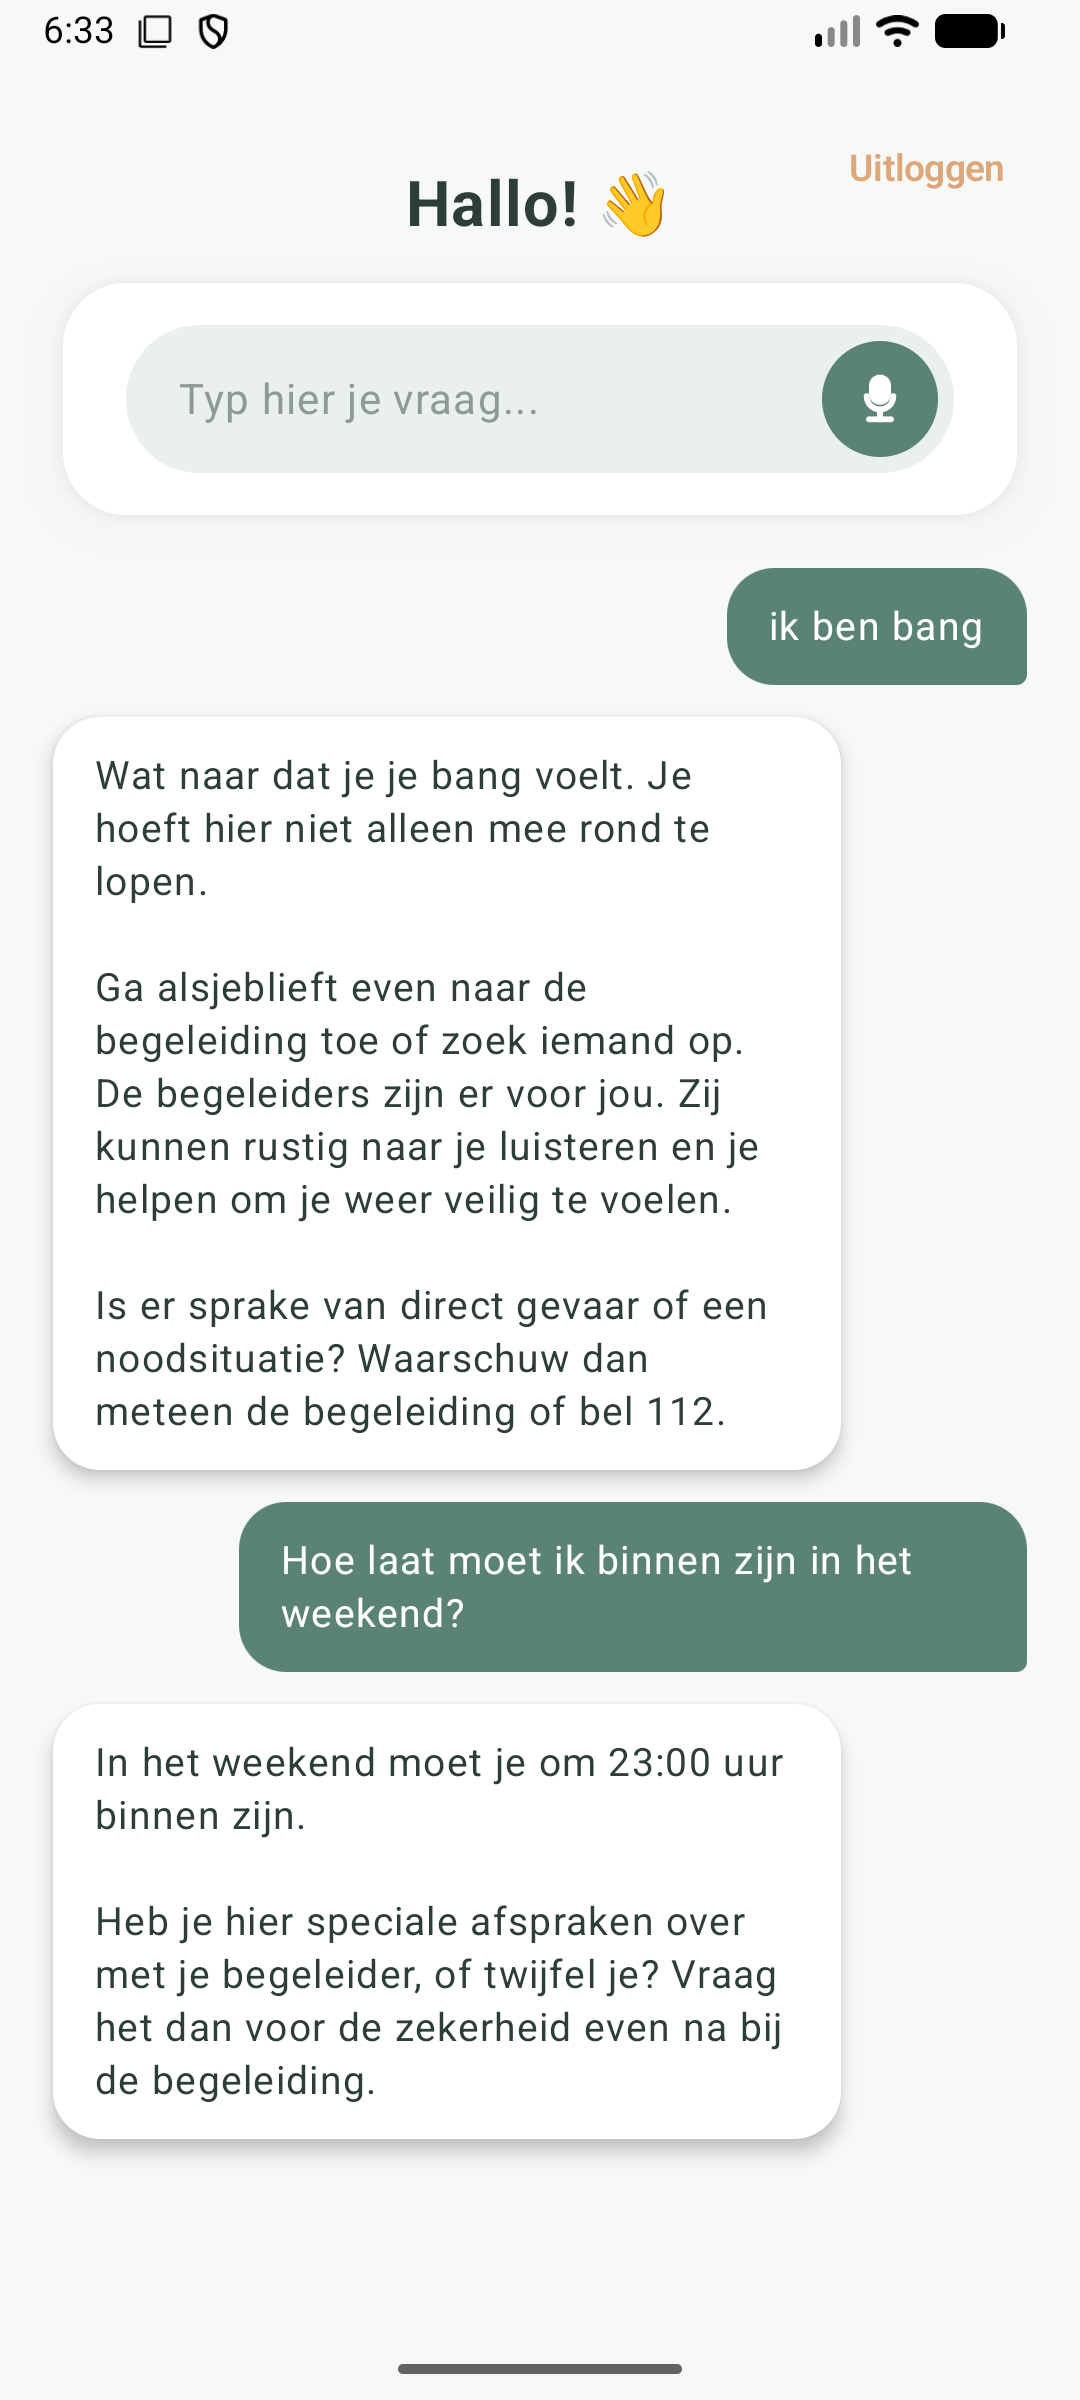
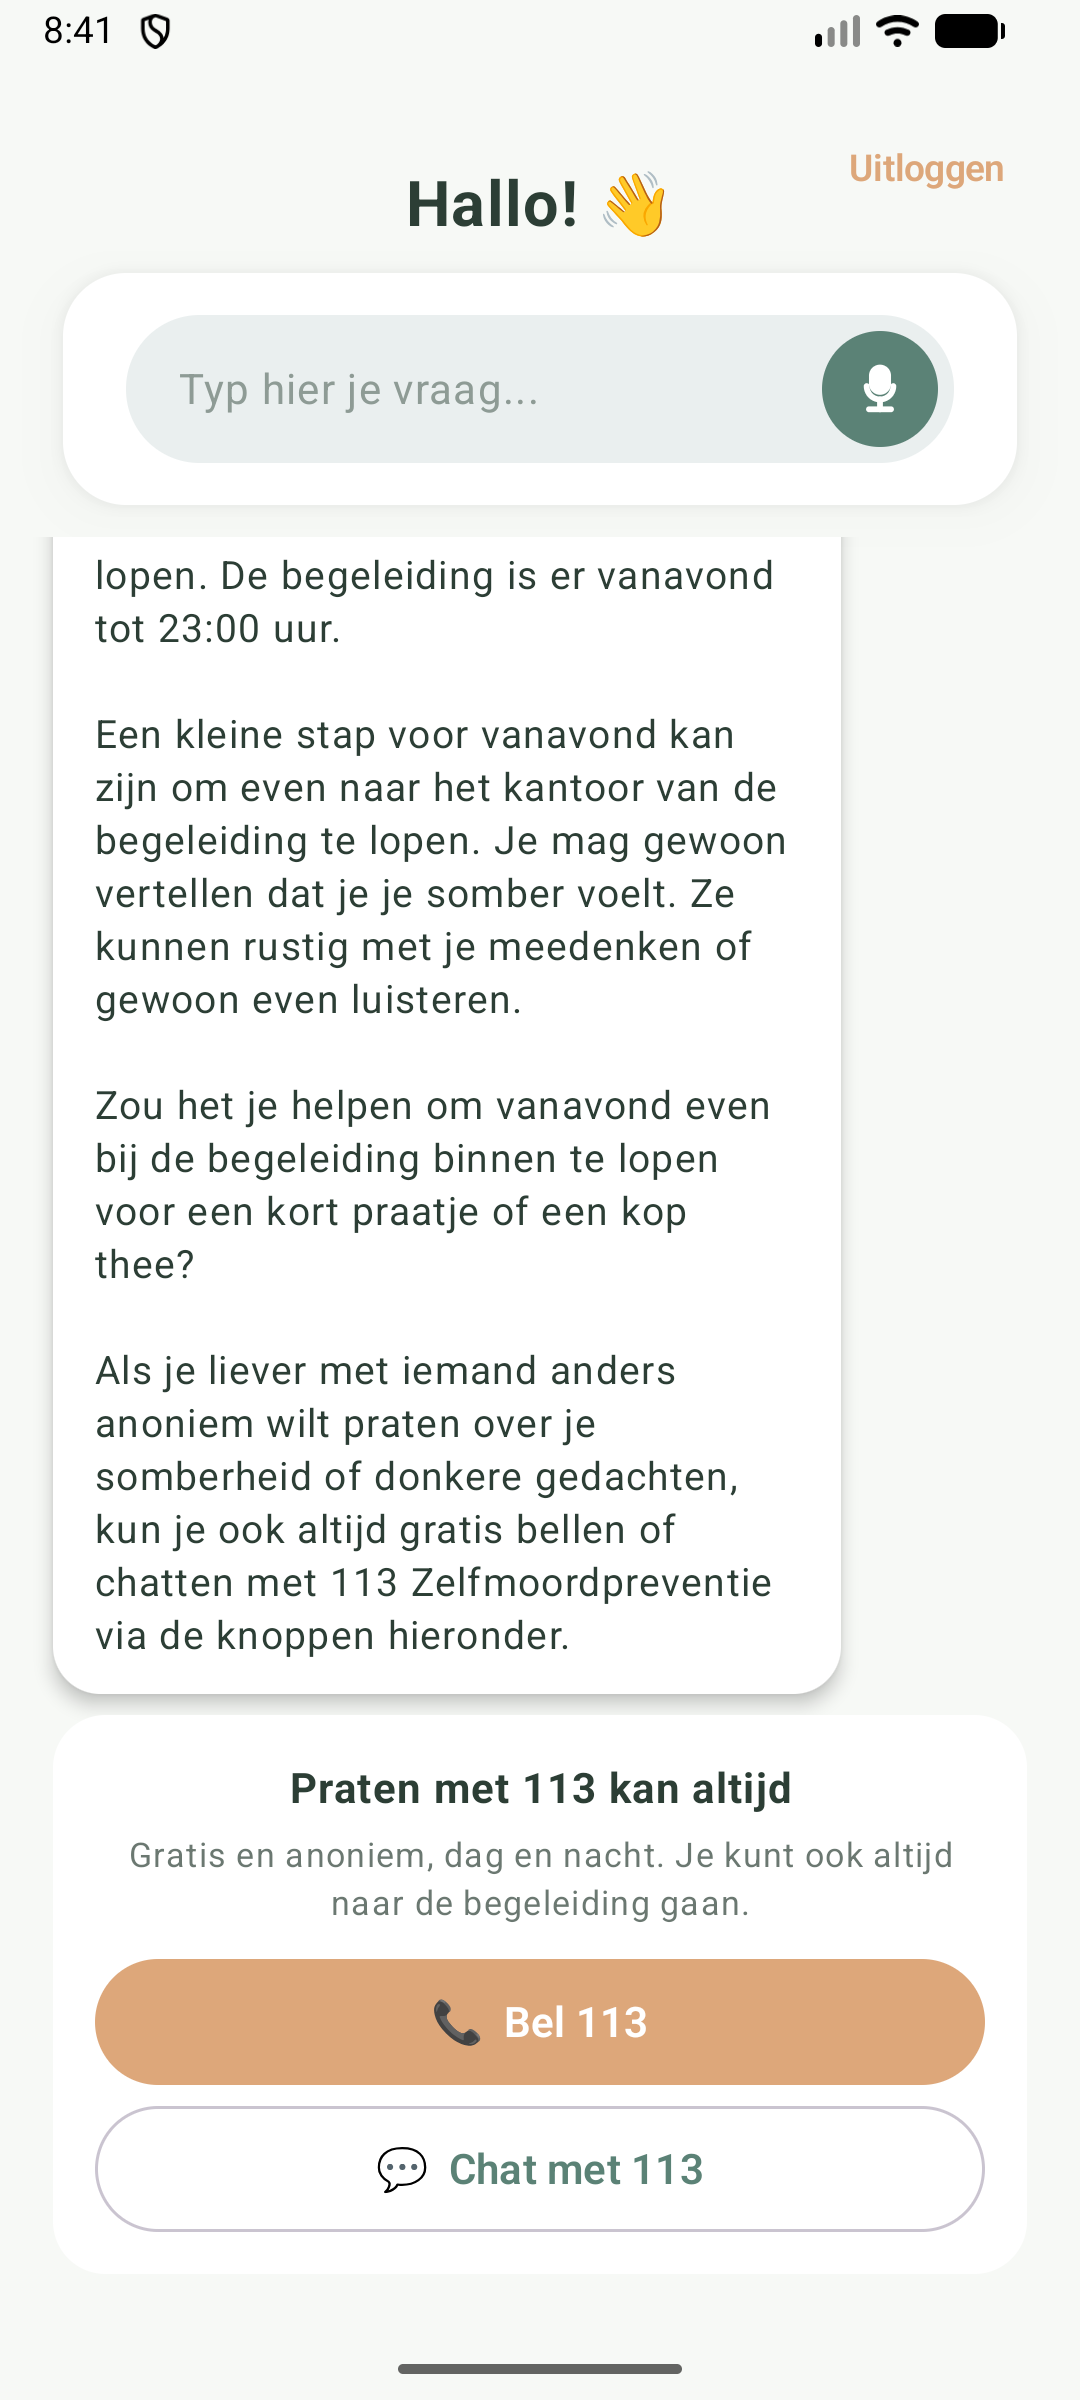
Versie 1.2: 113-knoppen bij somberheid of suïcidale gedachten, nieuwe screenshots

diff --git a/app/src/main/java/com/example/whatsubb/ui/ChatScreen.kt b/app/src/main/java/com/example/whatsubb/ui/ChatScreen.kt
@@ -33,6 +33,7 @@ import androidx.compose.ui.unit.sp
 import com.example.whatsubb.AppServices
 import com.example.whatsubb.ai.AiException
 import com.example.whatsubb.ai.Turn
+import com.example.whatsubb.data.KnowledgeBase
 import com.example.whatsubb.data.Role
 import com.example.whatsubb.privacy.Anonymizer
 import com.example.whatsubb.ui.theme.*
@@ -94,14 +95,14 @@ fun ChatScreen(
         }
     }
     var confirmNightCall by remember { mutableStateOf(false) }
+    var pendingPhone by remember { mutableStateOf<String?>(null) }
 
-    fun call(direct: Boolean) {
-        val phone = callTarget?.phone ?: return
+    fun call(phone: String, direct: Boolean) {
         val uri = Uri.parse("tel:" + phone.filter { it.isDigit() || it == '+' })
         try {
             context.startActivity(Intent(if (direct) Intent.ACTION_CALL else Intent.ACTION_DIAL, uri))
         } catch (e: SecurityException) {
-            call(direct = false)
+            call(phone, direct = false)
         } catch (e: ActivityNotFoundException) {
             Toast.makeText(context, "Bellen kan niet op dit apparaat. Het nummer is $phone", Toast.LENGTH_LONG).show()
         }
@@ -109,12 +110,26 @@ fun ChatScreen(
 
     // Eerste keer: toestemming vragen om direct te bellen; zonder toestemming opent de telefoon-app met het nummer.
     val callPermissionLauncher = rememberLauncherForActivityResult(ActivityResultContracts.RequestPermission()) { granted ->
-        call(direct = granted)
+        pendingPhone?.let { call(it, direct = granted) }
+        pendingPhone = null
     }
 
-    fun startCall() {
+    fun startCall(phone: String? = callTarget?.phone) {
+        if (phone == null) return
         val granted = ContextCompat.checkSelfPermission(context, Manifest.permission.CALL_PHONE) == PackageManager.PERMISSION_GRANTED
-        if (granted) call(direct = true) else callPermissionLauncher.launch(Manifest.permission.CALL_PHONE)
+        if (granted) call(phone, direct = true)
+        else {
+            pendingPhone = phone
+            callPermissionLauncher.launch(Manifest.permission.CALL_PHONE)
+        }
+    }
+
+    fun open113Chat() {
+        try {
+            context.startActivity(Intent(Intent.ACTION_VIEW, Uri.parse(HELP_113_CHAT_URL)))
+        } catch (e: ActivityNotFoundException) {
+            Toast.makeText(context, "Open 113.nl/chat in je browser", Toast.LENGTH_LONG).show()
+        }
     }
 
     fun onCallButton() {
@@ -138,8 +153,12 @@ fun ChatScreen(
                     systemPrompt = services.knowledgeBase.systemPrompt(role),
                     history = history.takeLast(MAX_TURNS).dropWhile { !it.fromUser }
                 )
-                messages.add(ChatMessage(reply, isUser = false))
-                history.add(Turn(fromUser = false, text = reply))
+                // De AI geeft met een vaste markering aan dat 113 erbij hoort; als vangnet kijken we ook naar de vraag zelf.
+                val answer = reply.replace(KnowledgeBase.HELP_113_MARKER, "").trim()
+                val show113 = role == Role.BEWONER &&
+                    (reply.contains(KnowledgeBase.HELP_113_MARKER) || mentions113Topic(query))
+                messages.add(ChatMessage(answer, isUser = false, show113 = show113))
+                history.add(Turn(fromUser = false, text = answer))
             } catch (e: AiException) {
                 messages.add(ChatMessage(e.message.orEmpty(), isUser = false, isError = true))
                 history.removeAt(history.lastIndex) // mislukte vraag niet meesturen
@@ -287,7 +306,12 @@ fun ChatScreen(
                     verticalArrangement = Arrangement.spacedBy(12.dp),
                     contentPadding = PaddingValues(vertical = 8.dp, horizontal = 4.dp)
                 ) {
-                    items(messages) { msg -> ChatBubble(message = msg) }
+                    items(messages) { msg ->
+                        Column {
+                            ChatBubble(message = msg)
+                            if (msg.show113) Help113Card(onCall = { startCall(HELP_113_PHONE) }, onChat = ::open113Chat)
+                        }
+                    }
                     if (isLoading) item { TypingBubble() }
                 }
             }
@@ -318,6 +342,59 @@ fun ChatScreen(
 }
 
 private const val MAX_TURNS = 20
+
+/** 113 Zelfmoordpreventie: gratis, anoniem, dag en nacht. */
+private const val HELP_113_PHONE = "0800-0113"
+private const val HELP_113_CHAT_URL = "https://www.113.nl/chat"
+
+private val HELP_113_WORDS = listOf(
+    "zelfmoord", "suïcid", "suicid", "zelfdoding", "dood wil", "dood zijn", "niet meer leven",
+    "niet meer wil leven", "einde maken", "er niet meer zijn", "er een eind aan", "mezelf iets aandoen",
+    "somber", "depressief", "hopeloos", "geen zin meer in", "geen zin in het leven", "alles is zinloos"
+)
+
+private fun mentions113Topic(text: String): Boolean {
+    val lower = text.lowercase()
+    return HELP_113_WORDS.any { it in lower }
+}
+
+/** Kaartje onder een antwoord over somberheid of suïcidale gedachten. */
+@Composable
+private fun Help113Card(onCall: () -> Unit, onChat: () -> Unit) {
+    Card(
+        modifier = Modifier.fillMaxWidth().padding(top = 8.dp),
+        shape = RoundedCornerShape(20.dp),
+        colors = CardDefaults.cardColors(containerColor = Color.White)
+    ) {
+        Column(modifier = Modifier.padding(16.dp), horizontalAlignment = Alignment.CenterHorizontally) {
+            Text(
+                "Praten met 113 kan altijd",
+                fontSize = 16.sp, fontWeight = FontWeight.Bold, color = TextDark, textAlign = TextAlign.Center
+            )
+            Text(
+                "Gratis en anoniem, dag en nacht. Je kunt ook altijd naar de begeleiding gaan.",
+                fontSize = 13.sp, color = TextDark.copy(alpha = 0.7f), textAlign = TextAlign.Center,
+                lineHeight = 18.sp, modifier = Modifier.padding(top = 4.dp, bottom = 12.dp)
+            )
+            Button(
+                onClick = onCall,
+                shape = CircleShape,
+                colors = ButtonDefaults.buttonColors(containerColor = PeachAccent),
+                modifier = Modifier.fillMaxWidth().height(48.dp)
+            ) {
+                Text("📞  Bel 113", fontSize = 16.sp, fontWeight = FontWeight.SemiBold, color = Color.White)
+            }
+            Spacer(modifier = Modifier.height(8.dp))
+            OutlinedButton(
+                onClick = onChat,
+                shape = CircleShape,
+                modifier = Modifier.fillMaxWidth().height(48.dp)
+            ) {
+                Text("💬  Chat met 113", fontSize = 16.sp, fontWeight = FontWeight.SemiBold, color = SagePrimary)
+            }
+        }
+    }
+}
 
 private val EXAMPLE_QUESTIONS = listOf(
     "🍽" to "Wat eten we vanavond?",

diff --git a/app/src/main/java/com/example/whatsubb/data/KnowledgeBase.kt b/app/src/main/java/com/example/whatsubb/data/KnowledgeBase.kt
@@ -102,6 +102,9 @@ class KnowledgeBase(
                   moment niet (zie de aanwezigheidstijden), zeg dat dan eerlijk. Tussen 23:00 en 08:00 kan de bewoner
                   altijd de bereikbare dienst bellen als het echt niet kan wachten tot de volgende dag; help de bewoner
                   rustig inschatten of iets kan wachten. Bij acuut gevaar altijd 112.
+                - Speelt somberheid, hopeloosheid, doodsgedachten of suïcidaliteit een rol (ook als het voorzichtig
+                  of verhuld gezegd wordt)? Zet dan helemaal aan het eind van je antwoord op een eigen regel: ${HELP_113_MARKER}
+                  De app laat dan knoppen zien om 113 te bellen of met 113 te chatten; je mag daarnaar verwijzen.
                 - Je kunt geen uitzonderingen op regels toezeggen; dat beslist de begeleiding.
             """.trimIndent() + callButtonHint()
 
@@ -120,5 +123,7 @@ class KnowledgeBase(
     companion object {
         const val ASSET_NAME = "ubb2_kennis.md"
         const val PERSONA_ASSET = "ai_rol.md"
+        /** Signaal van de AI dat de 113-knoppen getoond moeten worden; wordt uit het antwoord gehaald. */
+        const val HELP_113_MARKER = "[113]"
     }
 }

diff --git a/app/src/main/java/com/example/whatsubb/ui/Components.kt b/app/src/main/java/com/example/whatsubb/ui/Components.kt
@@ -28,7 +28,9 @@ import com.example.whatsubb.ui.theme.*
 data class ChatMessage(
     val text: String,
     val isUser: Boolean,
-    val isError: Boolean = false
+    val isError: Boolean = false,
+    /** Onder dit antwoord de knoppen naar 113 Zelfmoordpreventie tonen. */
+    val show113: Boolean = false
 )
 
 /** Bovenbalk met titel en een tekstknop rechts (terug / uitloggen). */

diff --git a/README.md b/README.md
@@ -10,7 +10,7 @@
 </p>
 
 <p align="center">
-  <img alt="Versie" src="https://img.shields.io/badge/versie-1.1.1-5B8276">
+  <img alt="Versie" src="https://img.shields.io/badge/versie-1.2-5B8276">
   <img alt="Android" src="https://img.shields.io/badge/Android-7.0%2B-5B8276?logo=android&logoColor=white">
   <img alt="Kotlin" src="https://img.shields.io/badge/Kotlin-Jetpack%20Compose-DDA77A?logo=kotlin&logoColor=white">
   <img alt="AI" src="https://img.shields.io/badge/AI-Google%20Gemini-2C3E35?logo=googlegemini&logoColor=white">
@@ -36,7 +36,7 @@ Alles is gebouwd rond **anonimiteit**: er worden geen namen of persoonsgegevens 
   &nbsp;&nbsp;
   <img src="docs/screenshots/bewoner-welkom.png" alt="Welkomstscherm bewoner" width="230">
   &nbsp;&nbsp;
-  <img src="docs/screenshots/bewoner-chat.png" alt="Chat met de AI" width="230">
+  <img src="docs/screenshots/bewoner-chat.png" alt="Chat met de AI, met de 113-knoppen" width="230">
 </p>
 
 ---
@@ -52,6 +52,7 @@ Alles is gebouwd rond **anonimiteit**: er worden geen namen of persoonsgegevens 
 | 👆 **Voorbeeldvragen** | Aanklikbare vragen zoals *"Wat eten we vanavond?"* en *"Ik voel me niet zo goed"* |
 | 📞 **Bel-knop** | Eén tik om de begeleiding te bellen; tussen 23:00 en 08:00 de bereikbare dienst (met controlevraag) |
 | 🆘 **Veilig** | Bij crisis verwijst de AI naar de begeleiding, de bereikbare dienst, 112 of 113, afhankelijk van het tijdstip |
+| 💚 **113-knoppen** | Gaat het over somberheid of suïcidale gedachten? Dan verschijnen onder het antwoord knoppen om 113 te bellen of te chatten (gratis, anoniem, dag en nacht) |
 
 ### 🧑💼 Voor begeleiders (begeleider-PIN)
 
